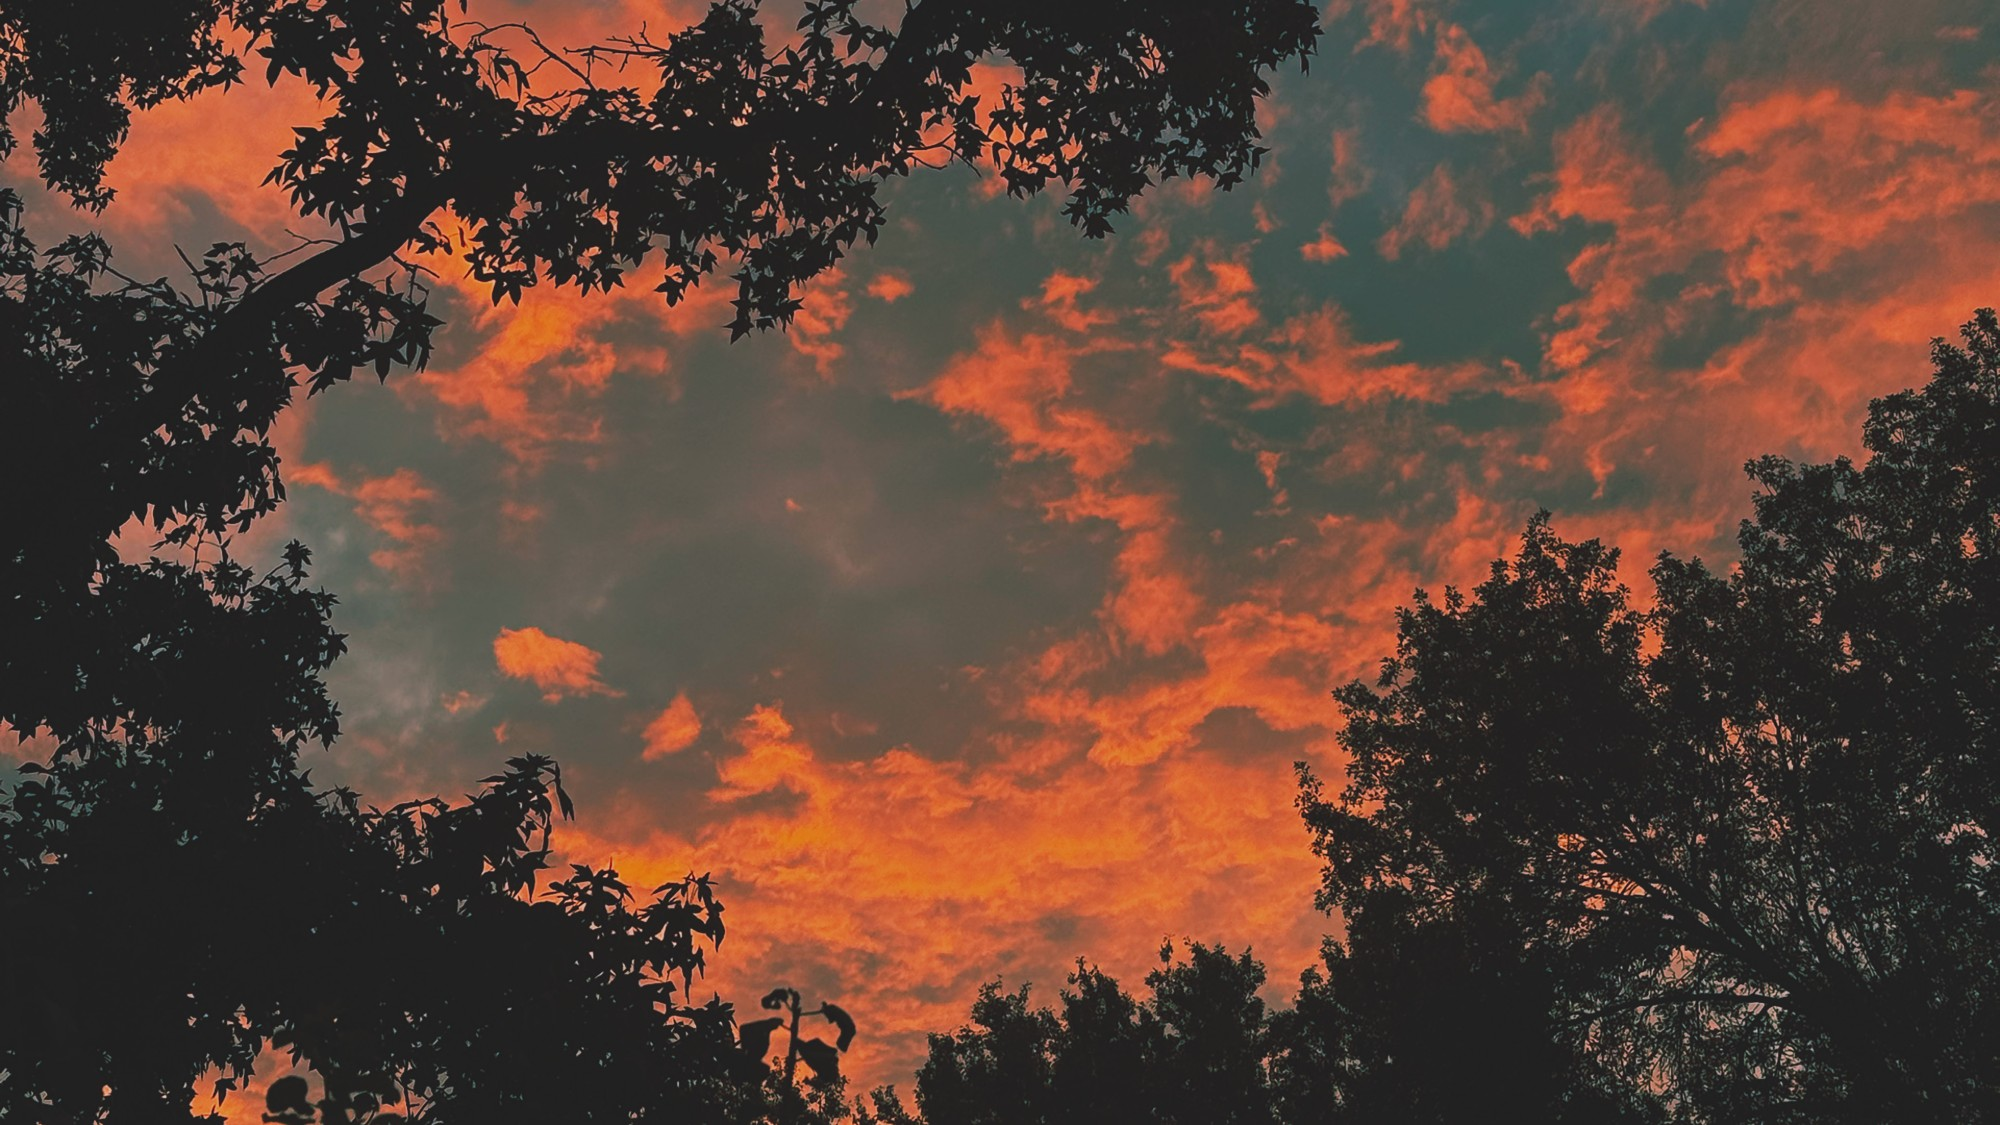
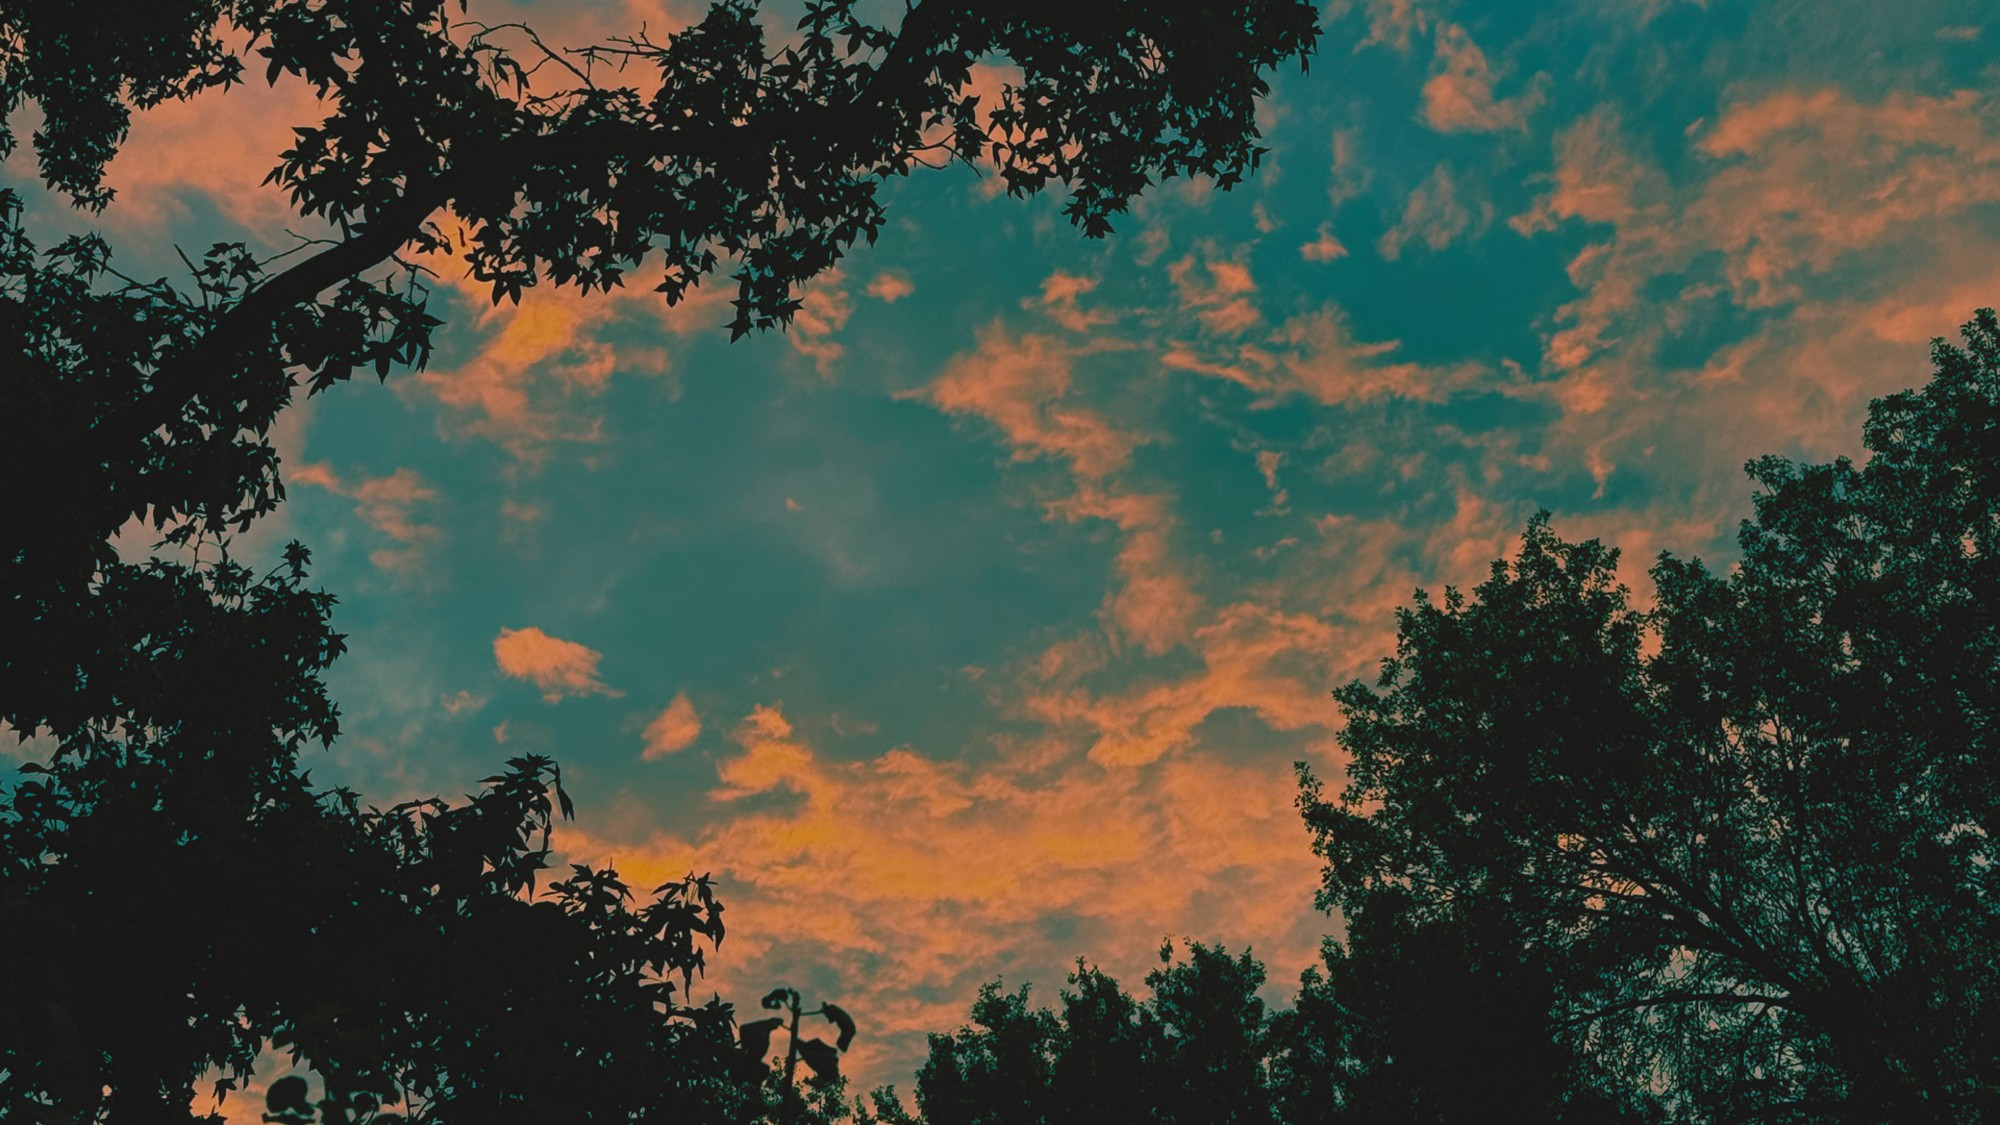
New background; show links for popup-blocked engines

diff --git a/index.html b/index.html
@@ -84,6 +84,7 @@
     opacity: 1;
   }
   .engines button:focus-visible { outline: 1px solid var(--ink); outline-offset: 2px; }
+  .hint a { color: var(--ink); text-underline-offset: 3px; }
   .hint {
     margin-top: 26px;
     font-size: 12px;
@@ -140,7 +141,22 @@ function go() {
   if (!term) return;
   const picks = ENGINES.filter(e => selected.has(e.name));
   if (!picks.length) { hint.textContent = "choose a search engine"; return; }
-  picks.forEach(e => window.open(e.url + encodeURIComponent(term), "_blank"));
+  const blocked = picks.filter(e => !window.open(e.url + encodeURIComponent(term), "_blank"));
+  hint.textContent = "";
+  if (blocked.length) {
+    hint.append("your browser blocked: ");
+    blocked.forEach((e, i) => {
+      const a = document.createElement("a");
+      a.href = e.url + encodeURIComponent(term);
+      a.target = "_blank";
+      a.rel = "noopener";
+      a.textContent = e.name;
+      hint.append(i ? ", " : "", a);
+    });
+    hint.append(" — allow popups for this page to open all at once");
+  } else {
+    hint.textContent = "press enter";
+  }
 }
 
 q.addEventListener("keydown", e => { if (e.key === "Enter") go(); });
